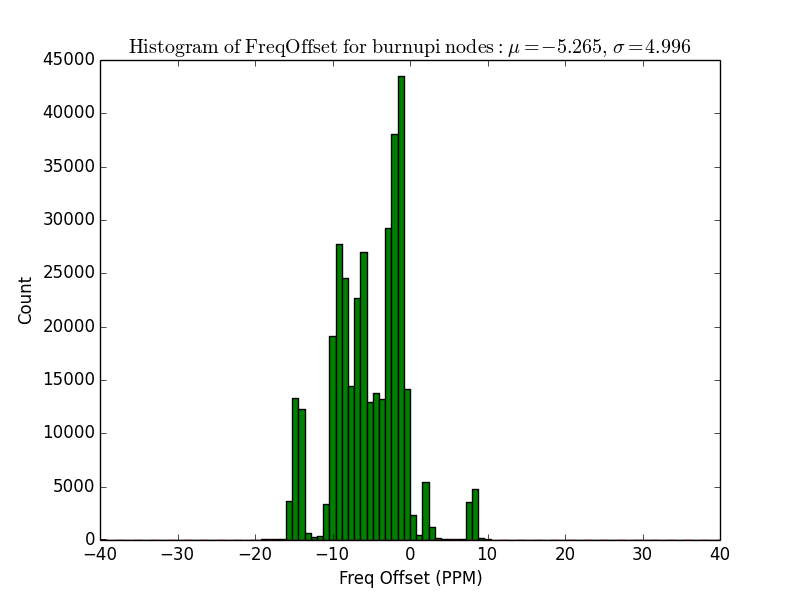
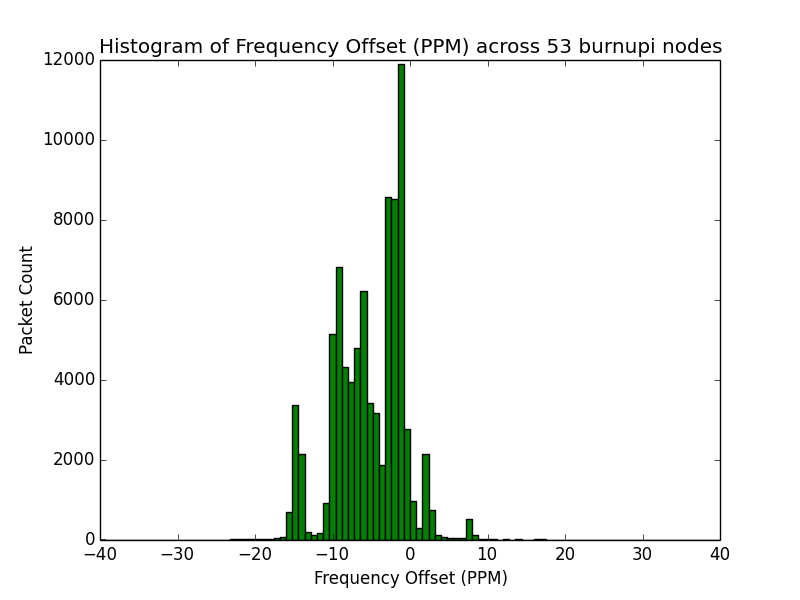
finished my portion of data results

diff --git a/FinalReport/data-results.tex b/FinalReport/data-results.tex
@@ -1,136 +1,162 @@
-\chapter{Data Collection and Results}
+\chapter{Testing and Analysis}
 \label{sec:results}
 
+With a theoretical proof of our algorithm complete, we can move on to
+testing and analyzing its real-world tractability and performance. We want to
+confirm that the time synchronization protocol is able to give accurate clock
+uncertainty bounds to provide overlapping freeze windows. We also
+want to test and analyze the size of these freeze windows in practice
+to ensure that they are not too large causing implementation infeasible.
 
-With a theoretical proof of the core of our algorithm complete, we can
-move on to an analysis of its real-world implementability and
-performance. We can first look at whether the tools we use to simulate
-time synchronization in the real world continue to conform to the
-invariant set out in our proof. We also can look at the performance of
-our freezing algorithm and analyze how big of a freeze window is
-necessary in a real world setting.
+FIGURE OUT EXPLAINING NTP AND WHY WE CHOSE NTP SO WE NOW WE CHOSE NTP
+
+This chapter is split into two sections. The first section includes
+the setup of the simulation environment for NTP and its parameters,
+and data collection of those parameters on a live Ceph test cluster.
+The second section consists of the results and analyses from the simulations,
+including the correctness of the NTP uncertainty bounds and the implied
+performance from the size of the freeze windows.
+
+ADD RESULTS?
+
+
 
 \section{Collection of NTP Performance in a Real-World Setting}
 
 There are two primary characteristics of our algorithm that need
-testing: the existence of the freeze period overlaps described in our
-solution, and the worst and average case duration of these freeze
-periods. As described above, we used simulations to observe the
-existence of the overlap. In order to accurately simulate the
-characteristics of a real Ceph cluster, we need to model the actual
-behavior of a given Ceph cluster.
+testing: the existence of the freeze period overlaps, and the 
+worst and average case duration of these freeze periods. 
+The existence of the freeze period overlaps can be tested by 
+ensuring that all of the NTP uncertainty bounds overlap at some 
+point in time. Since individual nodes cannot know the real time
+(if it did, we would be done as there would be no need for clock uncertainty
+bounds), we must use simulations to observe the existence of 
+the overlap of freeze windows. In order to accurately simulate the
+characteristics of a real Ceph cluster, we need to model the
+behavior of a live Ceph cluster.
 
-To do so, we used ntpd. This particular implementation exposes a
-significant amount of diagnostic data when configured properly, which
-allowed us to log data and statistics about machines' clocks and
-network communications. In particular, the data that interests us for
-simulation is the clock jitter and network latency.
-
-The clock jitter is the estimated random error on a given computer's
-clock drift from the NTP server, and is typically measured in Parts
-Per Million (PPM). For example, a PPM of 10 for clock jitter would
-mean for every million clock ticks of the NTP server, the local
-computer could be off by 10 ticks. The network latency is a measure of
-the round trip time of the message passed between the local computer
-to the NTP server and back. This is typically on the order of
-milliseconds~\cite{Sage}.
-
-The Ceph test cluster includes three types of computers named Mira,
+To test on a live Ceph cluster, we need to log data on 
+instances of NTP running on the cluster. The implementation for NTP 
+used on the Ceph cluster is called \textit{ntpd}. \textit{ntpd} is a
+daemon that synchronizes the clocks on each machine using NTP and
+provides diagnostic data on the machines' clocks and network 
+communications. The two parameters of interest are frequency offset and
+network latency. The \textit{ntpd} daemons were running on a Ceph
+test cluster that include three types of computers named Mira,
 Plana, and Burnupi. Miras and Planas use Intel-based chips, while
 Burnupi uses AMD chips.
 
-The histogram on figure~\ref{fig:latency-hist} shows the collected
-values on network latency. Note that there are three peaks that can be
-seen, and this is reflective of the three different types of
-computers. Among all three types of computers, network latency in the
-test cluster appear to generally be around single digit milliseconds.
+The frequency offset is the estimated random error on a given computer's
+clock drift from the NTP server, and is typically measured in Parts
+Per Million (PPM). For example, a PPM of 10 for frequency offset would
+mean for every million clock ticks of the NTP server, the local
+computer could be off by 10 ticks. The network latency is a measure of
+the round trip time of the message passed between a local machine in
+the Ceph cluster to the NTP server and back. The round trip time
+is typically on the order of milliseconds~\cite{Sage}.
+
+
+The histogram in Figure~\ref{fig:latency-hist} shows the logged
+values of network latency in the cluster. The mean is 2.668 ms, the 
+standard deviation is 10.304 ms, and the median is 0.643 ms. The 
+difference in network latency between each type of machine is not
+statistically significant, as we would expect given that the network
+latency between machines should not depend on the types of 
+machines in the network. 
 
 \begin{figure}[h]
   \centering
-  \caption{Histogram of network latency across 235 nodes in a Ceph test cluster.} 
-  %% TODO add stats when more accurate graphs 
-  %% are generated (hopefully without 3 peaks)
+  \caption{~Histogram of network latency across 234 nodes in a Ceph test cluster.} 
   \label{fig:latency-hist}
   \includegraphics[width=0.8\textwidth]{latency-hist.png}
 \end{figure}
 
-
-We observed the behavior of clock jitter on the same Ceph test
-cluster, as shown in Figure~\ref{fig:burnupi-hist}, and Figure~\ref{fig:burnupi-hist} for the different types of
-computers. Despite the different offsets, these can be seen to have a
-generally normal distribution. These values are reasonable as we would
-generally expect clock jitter to be at most around $\pm 20$ PPM. The average
-standard deviation for individual Burnupi nodes is 1.061 PPM, Mira
-nodes is 0.648, and Plana nodes is 2.011. The average across all is
-1.237 PPM.
-
-%% TODO what's a mira? who's Plana? Where is this ``burnupi''?
+Figure~\ref{fig:burnupi-hist}, Figure~\ref{fig:mira-hist},
+and Figure~\ref{fig:plana-hist} show the behavior of clock frequency offset
+on the three types of machines in the Ceph cluster. Despite the different offsets, 
+these are consistent with a normal distribution. These values are reasonable 
+as we would generally expect frequency offset to be at most $\pm 20$ PPM. 
+The average frequency offset for individual Burnupi machines is -5.216 PPM with 
+average standard deviation 1.079 PPM, Mira nodes with 10.752 PPM with average
+standard deviation 0.356, and Plana nodes with 13.341 PPM with average standard deviation 1.690. The average standard deviation across all nodes is
+1.033 PPM. It is interesting to note that the Burnupi machines with 
+the AMD chips primarily negative clock frequency offset, while the 
+Mira and Plana machines with Intel chips have primarily positive 
+clock frequency offsets.
 
 \begin{figure}[h]
-  \label{fig:burnupi-hist}
-  \caption{Histogram of NTP's frequency offset for Burnupi nodes in our Ceph test cluster.}
   \centering
+  \caption{~Histogram of NTP's frequency offset for Burnupi machines in the Ceph test cluster.}
+  \label{fig:burnupi-hist}
   \includegraphics[width=0.8\textwidth]{burnupi-freq-offset.png}
 \end{figure}
 
 \begin{figure}[h]
-  \label{fig:plana-hist}
-  \caption{Histogram of NTP's frequency offset for Plana nodes in our Ceph test cluster.}
   \centering
+  \caption{~Histogram of NTP's frequency offset for Mira machines in the Ceph test cluster.}
+  \label{fig:mira-hist}
+  \includegraphics[width=0.8\textwidth]{mira-freq-offset.png}
+\end{figure}
+
+\begin{figure}[h]
+  \centering
+  \caption{~Histogram of NTP's frequency offset for Plana machines in the Ceph test cluster.}
+  \label{fig:plana-hist}
   \includegraphics[width=0.8\textwidth]{plana-freq-offset.png}
 \end{figure}
 
-\section{Simulation of NTP for Performance and Analysis}
-
-Although the recorded real-world statistics have been very useful for
-understanding the behaviors of clocks and for validating our
-understanding of time synchronization, real-world records are not
-sufficient to be able to determine if our algorithm is correct. We
-must also look at simulation results to be able to check that the
-invariants that we would like to hold true do actually hold true. A
+With the data collected on frequency offset and network latency, we can 
+now simulate a test cluster with input parameters that reflect the 
+real world. Recall the fact that we cannot simply use a real Ceph
+cluster to observe the overlapping freeze windows because there is no
+way on observing the real time on a given computer. A
 simulated network environment running on a single computer has the
 advantage of having a single clock on which all simulated clocks are
-based. By having a single clock, we are able to quantity and verify
+based. By having a single clock, we are able to quantify and verify
 the claims that time synchronization algorithms make about the quality
 of a synchronization and the quality of the clocks involved.
 
-By using a simulation that abstracts the clock from a physical clock,
-we also eliminate any potential for idiosyncrasies of the host system
-clock to affect the measurements gathered in the simulation. This has
-the added benefit of allowing the simulation to run at a speed much
-greater than real time.
+% NOTE: I'm not sure this paragraph is needed?
+% By using a simulation that abstracts the clock from a physical clock,
+% we also eliminate any potential for idiosyncrasies of the host system
+% clock to affect the measurements gathered in the simulation. This has
+% the added benefit of allowing the simulation to run at a speed much
+% greater than real time.
 
-We have chosen to use an environment called clknetsim %% TODO reference to clknetsim repo?
-to conduct our simulations. This choice was made for a variety of
-reasons. Clknetsim is an open-source simulation package developed and
-used by a major contributor to the chrony project <TODO citation> and the
-linuxptp project <TODO citation> to test these protocol implementations. In
-comparison to commercial network simulation products, It provides us
-with a simple codebase and featureset targeted at our use case of
-measuring time across a simulated network.
+We have chosen to use an environment called \textit{clknetsim} %% TODO reference to clknetsim repo?
+to conduct our simulations. \textit{Clknetsim} is an open-source simulation 
+package developed and used by a major contributor to the \textit{Chrony}
+project <TODO citation> and the \textit{linuxptp} project <TODO citation> 
+to test these protocol implementations. In
+comparison to commercial network simulation products, it provides a 
+simple codebase and feature set targeted at measuring 
+time across a simulated network. We have made slight additions to and
+modifications of the clknetsim package. These extensions were made in 
+order to expose state parameters of NTP that were not being exposed, 
+including the maximum error term.
 
-Clknetsim makes use of LDPRELOAD to intercept system calls that time
-sychronization libraries make on their hosts. Using these intercepted
-calls, clknetsim is able to monitor and capture the internal state of
+Clknetsim makes use of the environment variable \textit{LD\_PRELOAD} in
+the Linux library to intercept system calls that time sychronization 
+libraries make on their hosts. Using these intercepted calls, 
+clknetsim is able to monitor and capture the internal state of
 the synchronization program. It is also able to fully control the
-information the time library receives from the network and the system
-clock. As clknetsim is in simulating system clocks and the network
-connections, it can shape behavior of these components to test
-different setups and hardware properties.
+information the host's time library receives from the network and the system
+clock. As clknetsim is manipulating system clocks and network
+connections for the simulation, it can shape the behavior of the clock
+and network parameters to test different setups and hardware properties. 
         
-We are most interested in collecting and measuring two parameters in
+We are most interested in measuring two parameters in
 this system. We first want to determine if the maximum uncertainty
-reported by NTP is accurate. Clknetsim allows us to do this by, for a
+reported by NTP is accurate. We can check that the maximum uncertainty
+report is accurate by ensuring that the uncertainty bounds on a given machine
+clock's time includes the real time.
+Clknetsim allows us to do this by, for a
 given timestamp in the simulation, allowing us to observe what NTP
 thinks the time is along with information about how certain NTP is
 about that time. Our second goal is to analyze how low of an
 uncertainty can be reached. As our algorithm is predicated on a upper
 bound of the uncertainty in time, performance analysis can be
-accomplished by observing how modifying various parameters affect the
-maximum error term that NTP reports.
+accomplished by observing how modifying various parameters such as
+network latency affect the maximum error term that NTP reports.
 
-Over the course of our project, we have made slight additions to and
-modifications of the clknetsim package. These modifications and
-extensions are mostly superficial and made in order to expose state
-parameters of NTP that were not previously being exposed, including
-the maximum error term.
+

diff --git a/diagnostics.py b/diagnostics.py
@@ -16,11 +16,13 @@ fileName = ""
 
 # types of nodes on cluster data. Change to specify different types of nodes
 nodeNames = ["burnupi", "mira", "plana"]
-# max value. Any value above this will be removed. This is to remove faulty
+# max and min value. Any value above and below this will be removed. This is to remove faulty
 # incorrectly logged values
-maxValue = 900.0
+threshold = 900.0
 # range for histogram plot
-histogramRange = (0, 5)
+histogramRange = (-40, 40)
+# reasonable latency range
+#histogramRange = (0, 5)
 
 usage = 'usage: diagnostics.py -i <inputfile> [-f | -t]'
 
@@ -147,10 +149,10 @@ def main(argv):
       truetimes = []
       truevalues = []
       for time, value in itertools.izip(times,values):
-        if time < 0:
+        if time < 0 or time > 4929100000.0:
           # deleting incorrect or padded entry
           continue
-        elif value > maxValue or value < 0.0:
+        elif value > abs(threshold):
           # deleting bad values
           print "data spike: " + str(value) + " on node: " + node['node']
         else:
@@ -179,6 +181,7 @@ def main(argv):
     # name of scatterplot graph is here
     plt.savefig(graphType + "scatter" + str(i))
 
+  overallValues = []
   overallStdDevs = []
   # make next three histogram plots based on data on each cluster
   for i in range(len(nodeNames)):
@@ -189,12 +192,18 @@ def main(argv):
       continue
     flattened = []
     stdDevs = []
-    for (key, value) in dataSet[i].items():
-      (muNode, sigmaNode) = norm.fit(value)
+    for (key, values) in dataSet[i].items():
+      # if we have a node with empty data, skip
+      if len(values) == 0:
+        continue
+      (muNode, sigmaNode) = norm.fit(values)
+      if math.isnan(sigmaNode):
+        print values
       stdDevs.append(sigmaNode)
       # uncomment to print stats of each node
       #print "node: " + key + " has mean: " + str(muNode) + " and stdDev: " + str(sigmaNode)
-      flattened += value
+      flattened += values
+    overallValues += flattened
 
     # best fit of data
     (mu, sigma) = norm.fit(flattened)
@@ -206,13 +215,23 @@ def main(argv):
     axes = plt.gca()
     plt.xlabel(graphLabel)
     plt.ylabel('Packet Count')
-    plt.title("Histogram of %s" % (graphLabel))
+    plt.title("Histogram of %s across %d %s nodes" % (graphLabel, numNodes[i], nodeNames[i]))
     print "Histogram of %s for %s nodes: mu=%.3f, sigma=%.3f, median=%.3f" %(graphType, nodeNames[i], mu, sigma, median)
     # name of histogram graph is here
     plt.savefig(graphType + "histogram" + str(i))
 
   print "Overall Standard Dev across " + str(len(overallStdDevs)) + " nodes is " + str(sum(overallStdDevs)/float(len(overallStdDevs)))
-     
+  plt.figure((len(nodeNames)*2)+1)
+  plt.xlabel(graphLabel)
+  plt.ylabel('Packet Count')
+  entries, bin_edges, patches = plt.hist(overallValues, bins = 100, facecolor = 'green', range = histogramRange)
+  totalNumNodes = sum(numNodes)
+  (mu, sigma) = norm.fit(overallValues)
+  median = np.median(overallValues)
+  plt.title("Histogram of %s across %d nodes" % (graphLabel, totalNumNodes))
+  print "Histogram of %s across %d nodes: mu=%.3f, sigma=%.3f, median=%.3f" %(graphType, totalNumNodes, mu, sigma, median)
+  plt.savefig(graphType + "histogramtotal")
+
   plt.show()
   json_data.close()
 
